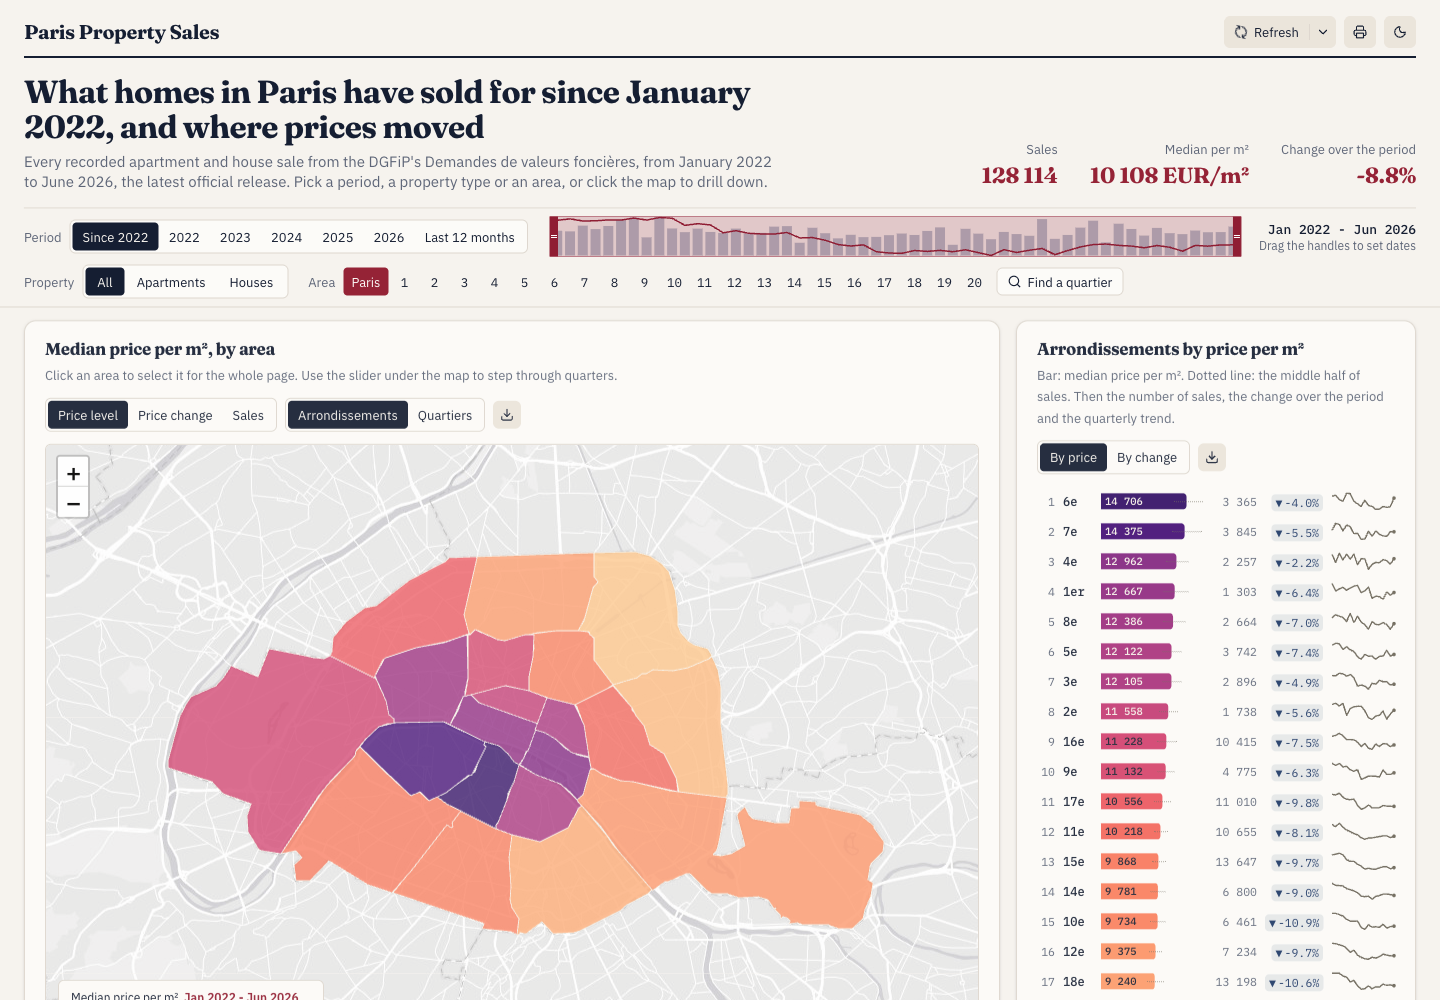
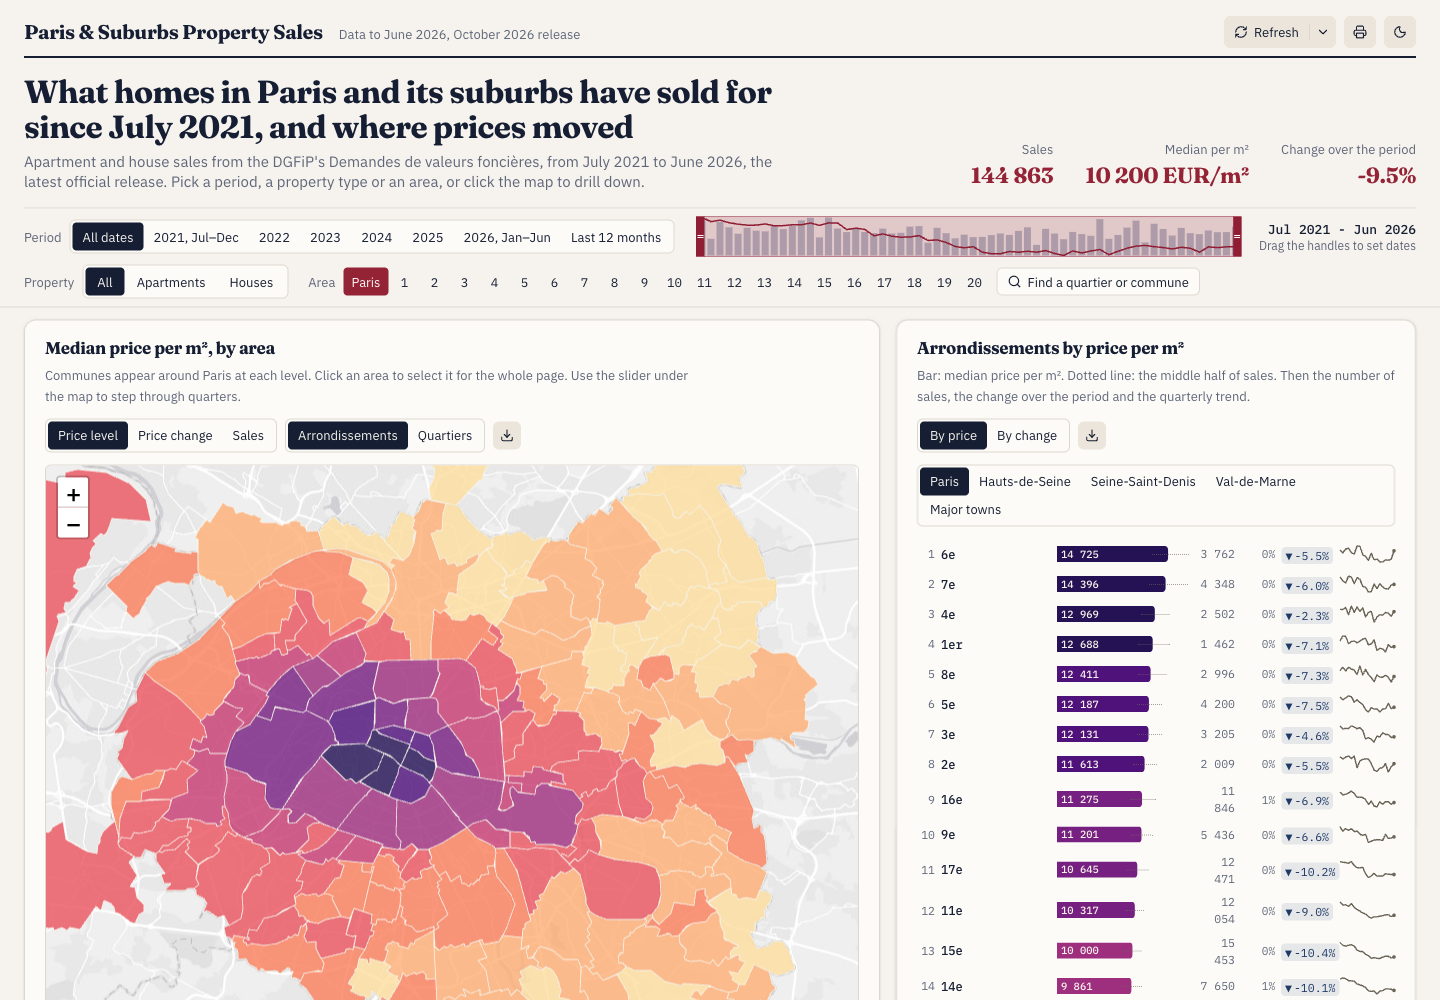
Record the measured figures and replace the screenshot

diff --git a/docs/architecture.md b/docs/architecture.md
@@ -78,7 +78,7 @@ sequenceDiagram
 - **Areas:** a request with no Area means Paris. The Areas are the Arrondissement, the Quartier, the Department (92, 93 or 94) and the Commune.
 - **Calculations:** `routes/sales.ts` calls `salesQueries.ts`, which holds all the SQL and calculates each response from the matching Sales. `timeStats.ts` holds the time buckets and the SQL for the Change.
 - **Response cache:** `responseCache.ts` keeps responses in memory, up to 256 MB in total, and removes the least recently used first. The key is the path plus the query after validation, with the same schema the route uses. Unknown parameters and different spellings of a value therefore share one entry, and the cache and the route always agree on what a request means. A path that is not listed in `QUERY_SCHEMAS` is not cached.
-- **Warm-up:** after the server starts, `prewarm.ts` calls its own API with the URLs the dashboard most often requests. `warmUrls()` produces 4,463 URLs. The time it takes is not yet measured on the new data (TIME_TO_BE_MEASURED_IN_TASK_11). The API answers during this time, but the first requests can be slower. These URLs copy the parameters that the dashboard sends, so a change to those parameters also needs a change in `prewarm.ts`.
+- **Warm-up:** after the server starts, `prewarm.ts` calls its own API with the URLs the dashboard most often requests. `warmUrls()` produces 4,463 URLs. It takes about 40 seconds: 36 to 41 seconds in three runs with no other traffic, with Docker on Apple Silicon. The API answers during this time, but the first requests can be slower. These URLs copy the parameters that the dashboard sends, so a change to those parameters also needs a change in `prewarm.ts`.
 
 ## Dashboard
 
@@ -112,7 +112,7 @@ These steps have not yet run on a real Coolify server. A local test covered the 
 5. Under **Configuration**, **Persistent Storage**, add a **Directory Mount** from `/srv/paris-property-sales/data` to `/app/data`.
 6. Add the domain. Coolify's proxy handles HTTPS.
 7. Leave the health check in the Coolify dashboard turned off. It needs `curl` or `wget` in the image, and this image has neither. The Dockerfile has its own health check, which calls `/api/healthz` through Node.
-8. Give the application at least 3 GB of memory. The container used about 250 to 440 MiB after the warm-up finished, measured twice with Docker. Under load it needs much more. In a test of 120 requests, three quarters of them `/sales/points` for the whole city with different `from` dates, sent 10, 20 and 40 at a time, a container limited to 1 GB was killed for lack of memory in all three runs. With no limit and 40 requests at a time, the peak was 2.2 GiB, against 1.13 GiB for the server before DuckDB. Each setting ran once, with Docker on Apple Silicon.
+8. Give the application at least 3 GB of memory. The container used about 465 to 485 MiB after the warm-up finished, measured three times with Docker on the 404,582 Sales. Under load it needs much more. These load figures come from the earlier data, with about 128,000 Sales in Paris only, and have not been repeated on the larger data. In a test of 120 requests, three quarters of them `/sales/points` for the whole city with different `from` dates, sent 10, 20 and 40 at a time, a container limited to 1 GB was killed for lack of memory in all three runs. With no limit and 40 requests at a time, the peak was 2.2 GiB, against 1.13 GiB for the server before DuckDB. Each setting ran once, with Docker on Apple Silicon.
 
 The image sets `PORT`, `STATIC_DIR` and `NODE_ENV`, so the application needs no environment variables in Coolify.
 
@@ -137,7 +137,7 @@ The site is not ready for the public yet. These items must be complete first.
 - **Publish a legal notice and a privacy notice.** The privacy notice must cover any outside service that the browser still contacts.
 - **Self-host the fonts and replace the Esri tiles.** We could not confirm that Esri's tile address can be used on a public site without an account. Choose a map provider with terms that clearly allow public use.
 - **Accept the re-identification risk knowingly.** No Sale holds its `id_mutation` any more, so a Visitor cannot join a Sale to the public DVF file by that identifier. Date, price, surface and street together still identify 404,405 of the 404,582 Sales uniquely. We accept this risk, and the DGFiP condition against indirect re-identification is not fully met. [Decision record 6](adr/0006-public-site-limits.md) records it.
-- **Design the map for rounded Sale locations.** Several dots stack on one position. Several Sales share one position, and the stacks are larger now that the Communes are included.
+- **Design the map for rounded Sale locations.** Several dots stack on one position. 395,228 of the 404,110 points share a position with at least one other point, and the largest stack holds 407 Sales. A position holds about 22 Sales on average in Paris and about 7 in the Communes.
 
 [Decision record 6](adr/0006-public-site-limits.md) explains the location, search engine and API limits.
 

diff --git a/README.md b/README.md
@@ -2,7 +2,7 @@
 
 An interactive dashboard of private home sales in Paris and its suburbs: the 20 arrondissements, the 122 communes of the Hauts-de-Seine, Seine-Saint-Denis and Val-de-Marne, and 13 major towns of the rest of the Paris region. It is built from DVF (Demandes de valeurs foncières), the open data on property sales published by the French tax administration (DGFiP).
 
-![The dashboard: a map of median price per square metre by arrondissement, next to a ranked list of arrondissements](docs/screenshot.png)
+![The dashboard: a map of median price per square metre across Paris and the Communes around it, next to a ranked list of arrondissements](docs/screenshot.png)
 
 ## What it shows
 
@@ -109,8 +109,8 @@ Build the dashboard and serve `artifacts/data-app/dist/public` from any static h
 
 ## Things to know
 
-- **Startup:** the server pre-computes about 4,463 common responses when it starts, which takes TIME_TO_BE_MEASURED_IN_TASK_11. The API answers during that time, but the first requests can be slower.
-- **Memory:** the container used about 250 to 440 MiB after the warm-up finished, measured twice with Docker. Under load it needs much more. In a test of 120 requests, three quarters of them `/sales/points` for the whole city with different `from` dates, sent 10, 20 and 40 at a time, a container limited to 1 GB was killed for lack of memory in all three runs. With no limit and 40 requests at a time, the peak was 2.2 GiB, against 1.13 GiB for the server before DuckDB. Each setting ran once, with Docker on Apple Silicon. Give the container at least 3 GB.
+- **Startup:** the server pre-computes about 4,463 common responses when it starts, which takes about 40 seconds. The API answers during that time, but the first requests can be slower.
+- **Memory:** the container used about 465 to 485 MiB after the warm-up finished, measured three times with Docker on the 404,582 Sales. Under load it needs much more. These load figures come from the earlier data, with about 128,000 Sales in Paris only, and have not been repeated on the larger data. In a test of 120 requests, three quarters of them `/sales/points` for the whole city with different `from` dates, sent 10, 20 and 40 at a time, a container limited to 1 GB was killed for lack of memory in all three runs. With no limit and 40 requests at a time, the peak was 2.2 GiB, against 1.13 GiB for the server before DuckDB. Each setting ran once, with Docker on Apple Silicon. Give the container at least 3 GB.
 - **External services:** the browser loads fonts from Google Fonts and map tiles from Esri, so it needs internet access to both. To self-host the fonts, replace the `@import url(...)` line at the top of `artifacts/data-app/src/index.css`. To use another map provider, replace the tile URL in `artifacts/data-app/src/components/sales-map.tsx`. Check Esri's terms of use for your level of traffic.
 - **Coverage:** the data covers the latest DVF release, and the dashboard shows its first and last dates. Prices are nominal euros, not adjusted for inflation.
 - **Which sales are included:** a sale in the dataset is one DVF "Vente" transaction with exactly one apartment or house and no commercial premises. It costs 20,000 to 20,000,000 EUR, has 9 to 300 m² of built surface, and has a price of 1,000 to 35,000 EUR/m². These rules leave out some residential transactions, and the data note in the app shows how many.
